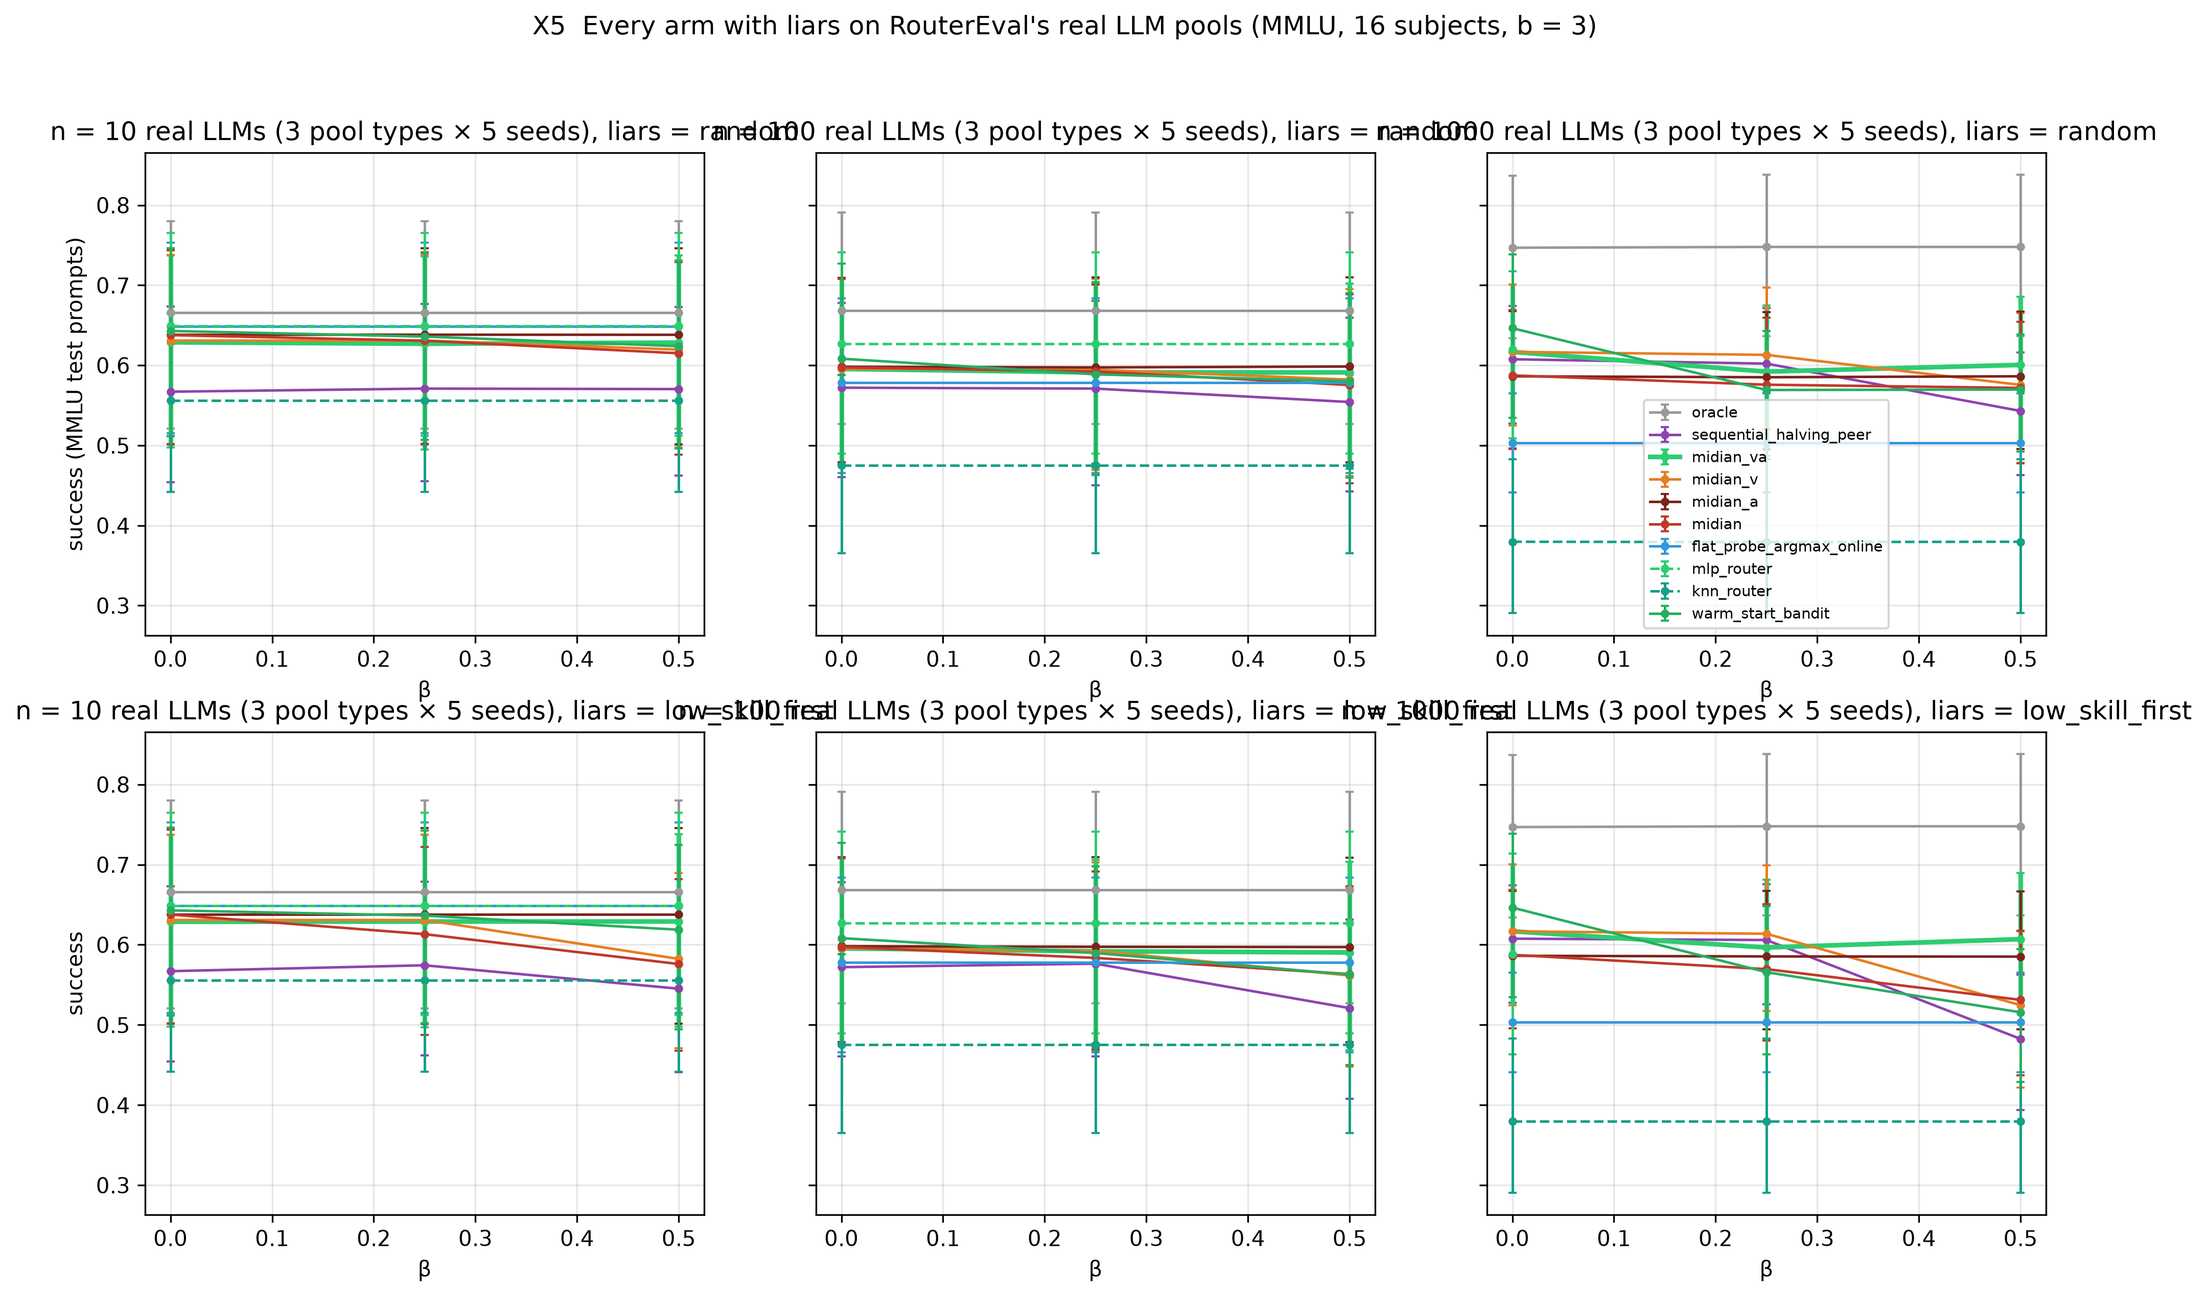
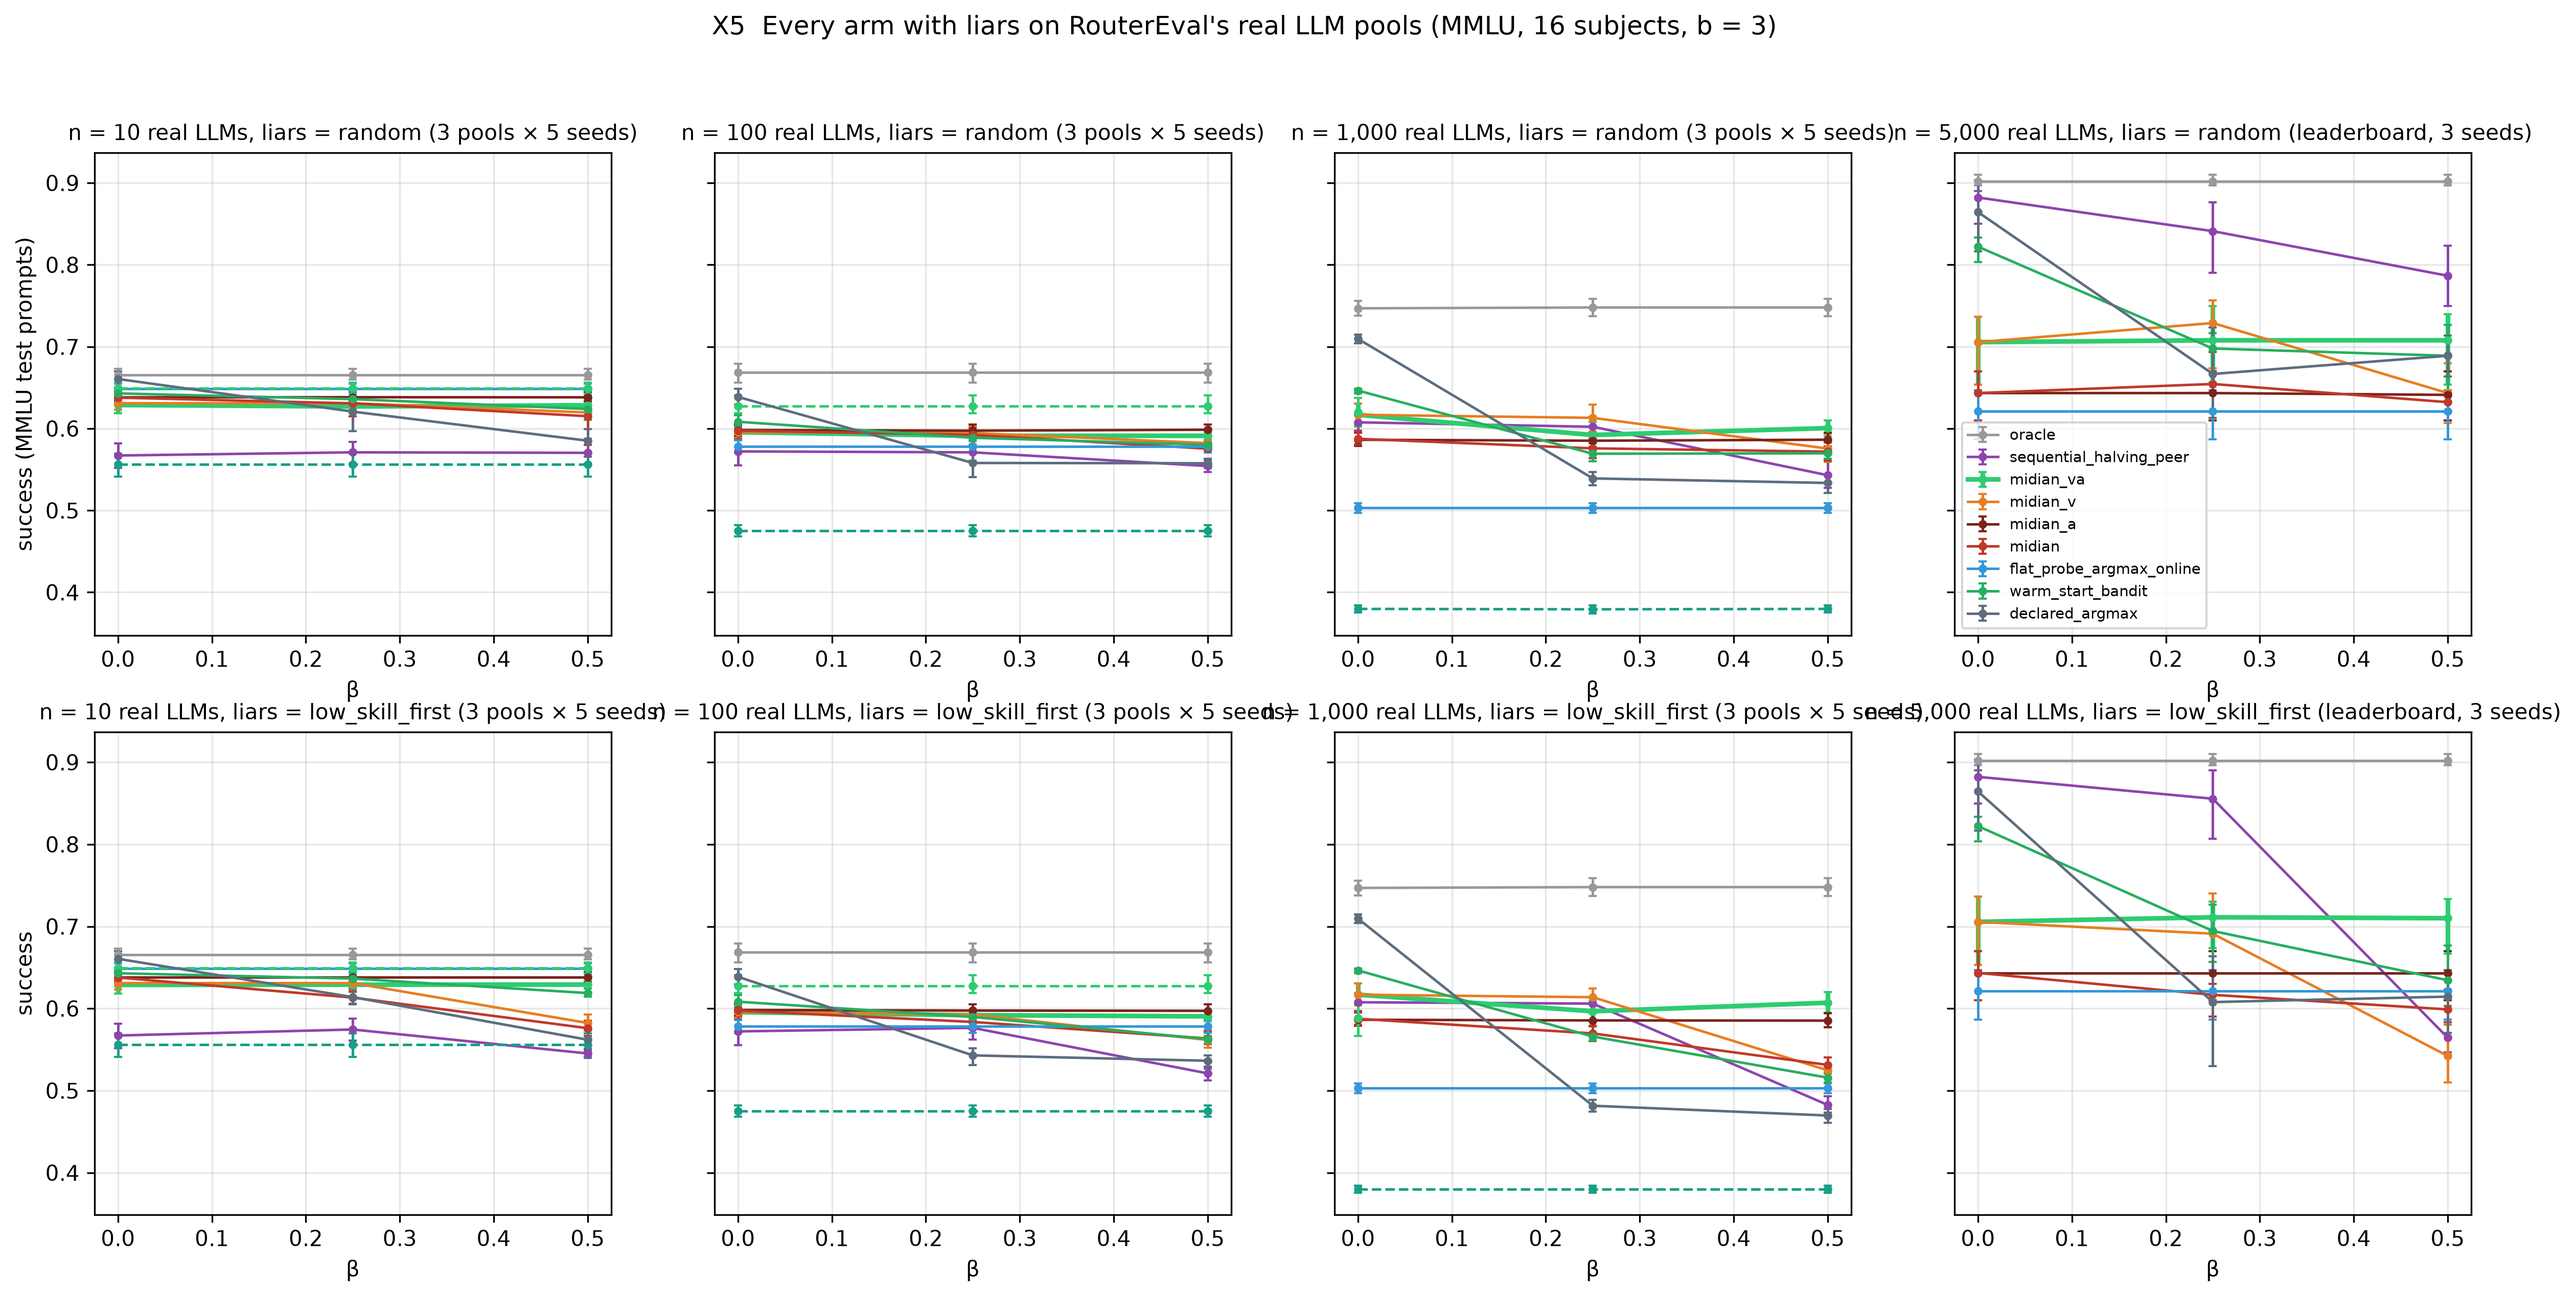
v3: X3/X5 with seed-bootstrap bars and the 5,000-LLM panel; STATUS v3 handoff

diff --git a/scripts/v3_figs.py b/scripts/v3_figs.py
@@ -12,7 +12,7 @@ COLOR.update({"mlp_router": "#2ecc71", "knn_router": "#16a085", "knn_router_onli
 
 def line(ax, df, label, **kw):
     g = df.groupby("beta")
-    m = g.success.mean(); lo, hi = zip(*[ci(x.groupby(["dist", "liar_select", "seed"]).success.mean().to_numpy()) for _, x in g])
+    m = g.success.mean(); lo, hi = zip(*[ci(x.groupby("seed").success.mean().to_numpy()) for _, x in g])   # per-seed mean over cells, bootstrap over seeds
     ax.errorbar(m.index, m.values, yerr=[m.values - np.array(lo), np.array(hi) - m.values], marker="o", ms=3, capsize=2, label=label, color=COLOR.get(label), **kw)
 
 
@@ -40,16 +40,17 @@ def X4():
 
 
 def X5():
-    df = load(["routereval_mmlu"]); arms = ["oracle", "sequential_halving_peer", "midian_va", "midian_v", "midian_a", "midian", "flat_probe_argmax_online", "mlp_router", "knn_router", "warm_start_bandit"]
-    fig, axes = plt.subplots(2, 3, figsize=(16, 9), sharey="row")
-    for j, n in enumerate([10, 100, 1000]):
+    df = load(["routereval_mmlu", "routereval_mmlu5k"]); arms = ["oracle", "sequential_halving_peer", "midian_va", "midian_v", "midian_a", "midian", "flat_probe_argmax_online", "mlp_router", "knn_router", "warm_start_bandit", "declared_argmax"]
+    COLOR.setdefault("declared_argmax", "#5d6d7e")
+    fig, axes = plt.subplots(2, 4, figsize=(20, 9), sharey="row")
+    for j, n in enumerate([10, 100, 1000, 5000]):
         for i, ls in enumerate(["random", "low_skill_first"]):
             ax = axes[i][j]; sub = df[(df.n == n) & (df.liar_select == ls)]
             for l in arms:
                 x = sub[sub.label == l]
                 if len(x): line(ax, x, l, lw=2.2 if l == "midian_va" else 1.2, ls="--" if l in ("knn_router", "mlp_router") else "-")
-            ax.set_title(f"n = {n} real LLMs (3 pool types × 5 seeds), liars = {ls}"); ax.set_xlabel("β"); ax.grid(alpha=.3)
-    axes[0][0].set_ylabel("success (MMLU test prompts)"); axes[1][0].set_ylabel("success"); axes[0][2].legend(fontsize=7)
+            ax.set_title(f"n = {n:,} real LLMs, liars = {ls}" + (" (3 pools × 5 seeds)" if n < 5000 else " (leaderboard, 3 seeds)"), fontsize=10); ax.set_xlabel("β"); ax.grid(alpha=.3)
+    axes[0][0].set_ylabel("success (MMLU test prompts)"); axes[1][0].set_ylabel("success"); axes[0][3].legend(fontsize=7)
     fig.suptitle("X5  Every arm with liars on RouterEval's real LLM pools (MMLU, 16 subjects, b = 3)"); fig.savefig(f"{O}/X5_routereval_liars.png", dpi=300, bbox_inches="tight"); print("[X5] written")
 
 

diff --git a/STATUS.md b/STATUS.md
@@ -139,3 +139,19 @@ flat_probe_argmax and (online); frameworks fw_* and fw_*(retrieval=midian, r∈{
 **2026-09-03 11:30 — finish_v2 (unattended): RAN PREMATURELY AGAIN (three empty squeue listings under controller load while ~2,300 jobs were still queued; poll now also requires the finisher itself to appear in the listing); analyses, targets_v2 merge (results/v2_targets) and figures regenerated. Next: fill RESULTS_rte_v2.md TODO(grid) markers from the summaries.**
 
 **2026-09-03 14:34 — finish_v2 (unattended): all v2 grids closed (3 consecutive empty polls); analyses, targets_v2 merge (results/v2_targets) and figures regenerated. Next: fill RESULTS_rte_v2.md TODO(grid) markers from the summaries.**
+
+**2026-09-03 21:20 — v3 HANDOFF (external comparisons).** Read TARGETS_rte_v3.md (T3-1..T3-17) and RESULTS_rte_v3.md
+(A RouterBench on its terms, B RouteLLM, C their KNN/MLP routers inside our benchmark, D RouterEval: D1 their terms with
+Avengers/EmbedLLM, D2 every arm with liars on their real pools incl. all 5,000 leaderboard LLMs, D3 GraphRouter/RouterDC
+NOT RUN). Figures X1–X5 in figures/ (scripts/routerbench_terms.py, rivals_routellm.py, routereval_terms.py, v3_figs.py;
+backend rte/backends/routereval.py; methods knn_router/mlp_router/_learned.py; grids learned_f1/n100/n10k,
+routereval_mmlu, routereval_mmlu5k). Data: $RTE_DATA/data/{routerbench_0shot.pkl, routereval/*}; envs
+$RTE_DATA/env/{routellm,llmrouter}. STILL RUNNING at 21:20: learned_n10k knn_router (18 shards, embedding 480k prompts,
+~3 h in), routereval_mmlu mlp_router at n=1000 β>0 (3 units), routereval_mmlu5k knn_router (9 units), fw grids'
+Magentic-One tails (restarted 20:15 after the per-call endpoint fix; 3 × 14B replicas), fw lowskill 88%, verified
+96%/89%, churn 478/480. TO FINISH: (1) when those land: part C n=10k (T3-9) + X3, D2 mlp/knn rows + X5, v2 §1/§1b/App.E
+de-asterisk + H1 low-skill panel + README headline + §6b sync; (2) D3 GraphRouter/RouterDC via LLMRouter
+(exporter + GNNPredictor.predict path) if wanted; (3) `python -m rte.llm_client compact`; (4) remove the 7 bare
+endpoints.d entries by hand when fleet 44175863 exits (2026-09-05 ~10:30). KNOWN: LinUCB on the 5k pool = flat frozen
+(0.609) though a smoke run gave 0.257 (seed effect; reported as measured); Avengers K=64 below the probe table at
+m=1000 (over-partition); RouteLLM harness crashes at its metrics step (metrics recomputed from its prints).
